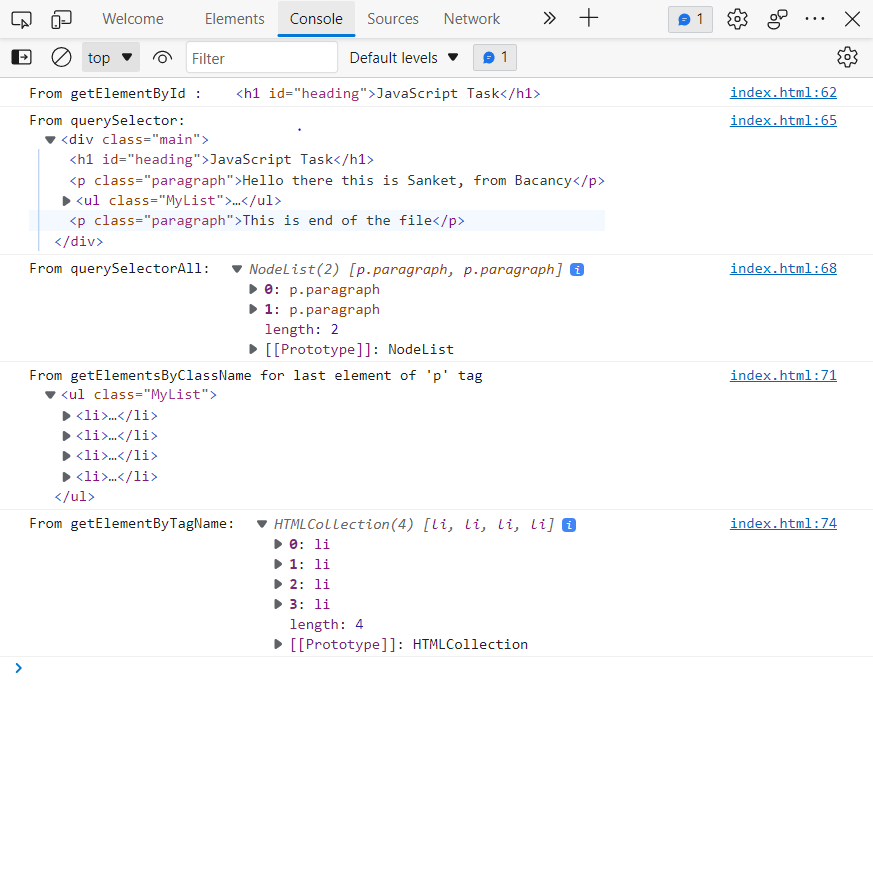
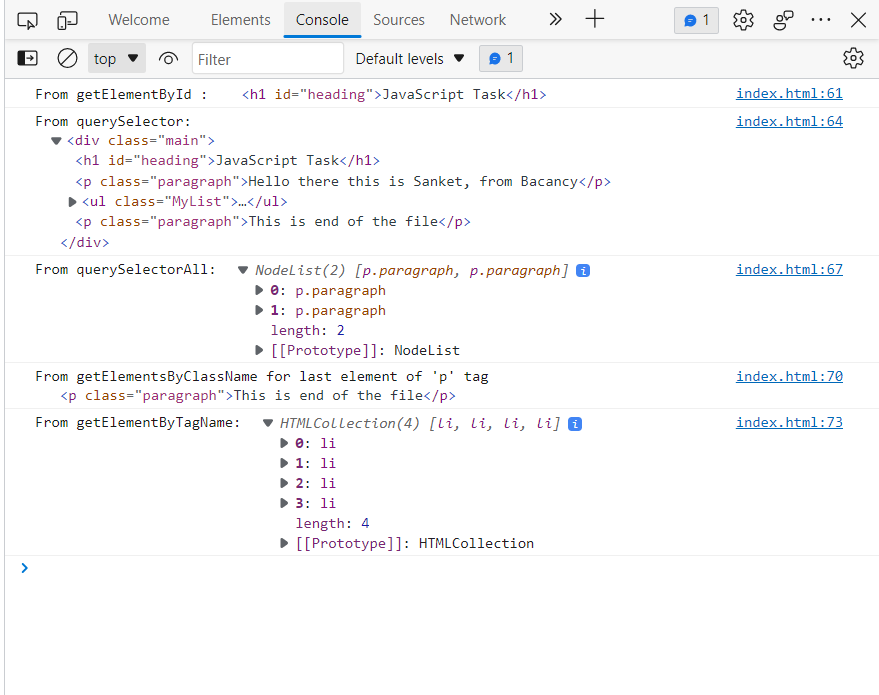
Final Commit

diff --git a/index.html b/index.html
@@ -5,7 +5,6 @@
     <meta http-equiv="X-UA-Compatible" content="IE=edge">
     <meta name="viewport" content="width=device-width, initial-scale=1.0">
     <title>JavaScript Task</title>
-    <link rel="stylesheet" href="style.css">
 </head>
 <body>
   <div class="main">
@@ -30,7 +29,7 @@
   var paraAll = document.querySelectorAll("p");
   console.log("From querySelectorAll: ", paraAll);
 
-  var paragraph = document.getElementsByClassName("MyList");
+  var paragraph = document.getElementsByClassName("paragraph");
   console.log("From getElementsByClassName for last element of 'p' tag", paragraph[paragraph.length-1]);
 
   var listItem = document.getElementsByTagName("li");
